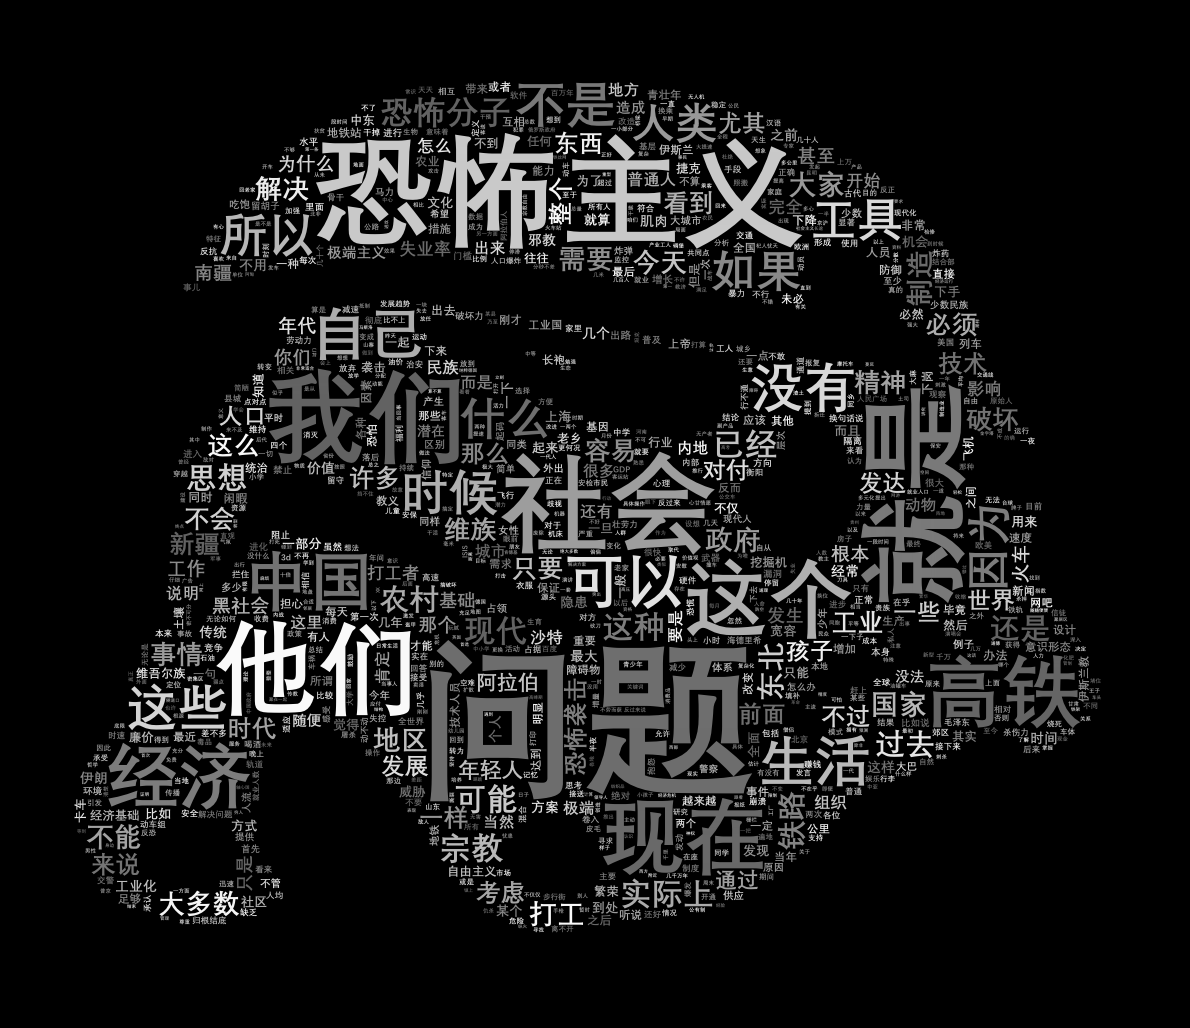
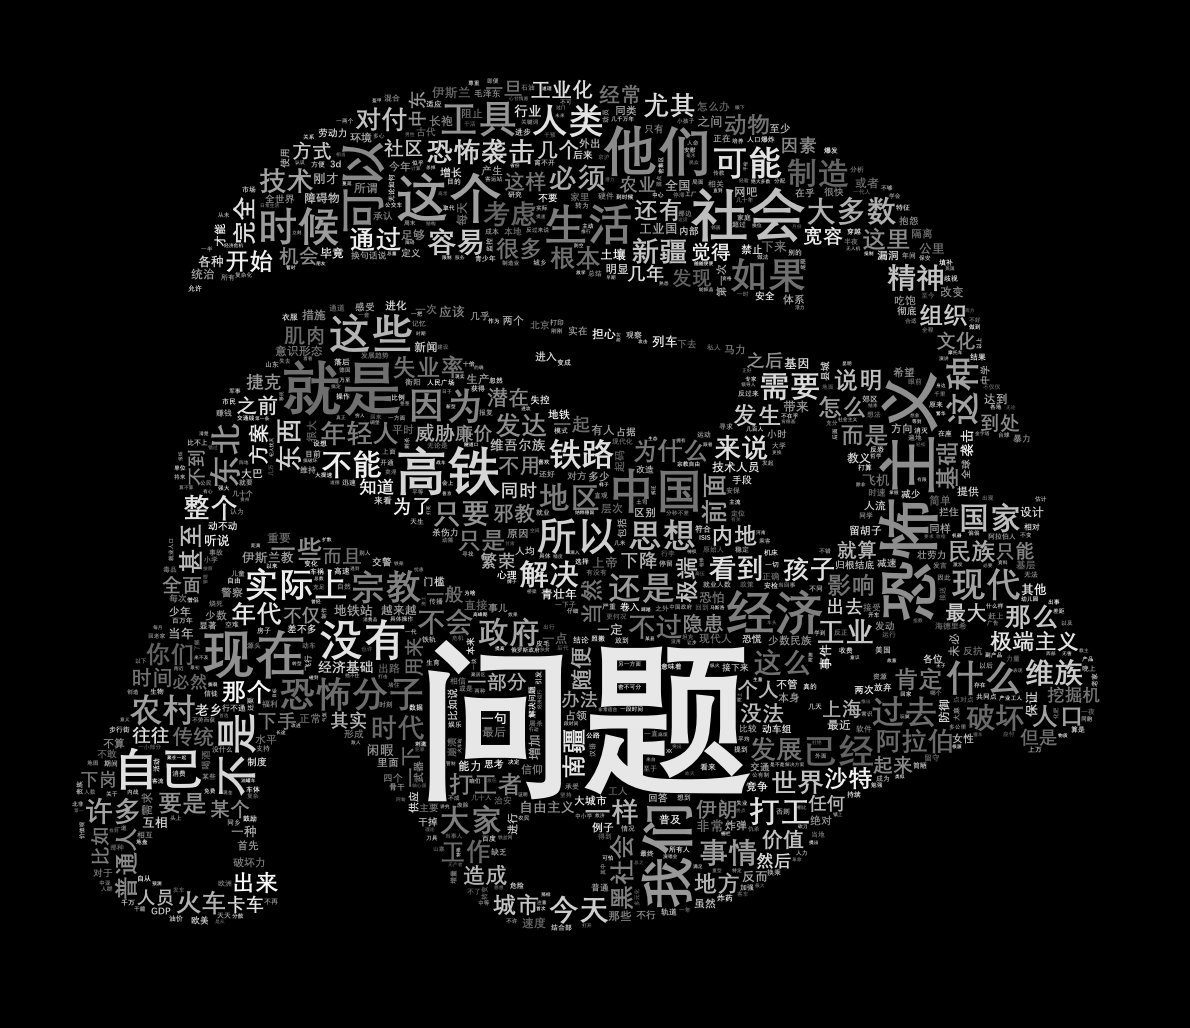
[examples] repeat

Changed region(s): [[0.0622, 0.0623, 0.9328, 0.9027]]

diff --git a/src/tokenizer.rs b/src/tokenizer.rs
@@ -57,6 +57,11 @@ impl<'a> ChineseTokenizer {
         self
     }
 
+    pub fn with_repeat(mut self, value: bool) -> Self {
+        self.repeat = value;
+        self
+    }
+
     fn tokenize(&'a self, text: &'a str) -> impl IntoIterator<Item = &str> {
         let mut iter: Box<dyn Iterator<Item = &str>> = Box::new(
             self.regex
@@ -161,6 +166,25 @@ impl<'a> ChineseTokenizer {
 
         if self.max_words > 0 {
             normalized_freqs.truncate(self.max_words);
+        }
+
+        if self.repeat && normalized_freqs.len() < self.max_words as usize {
+            let times_extend =
+                ((self.max_words as f32 / normalized_freqs.len() as f32).ceil()) as u32 - 1;
+
+            let freqs_clone = normalized_freqs.clone();
+            let down_weight = normalized_freqs
+                .last()
+                .expect("The normalized frequencies vec is empty")
+                .1;
+
+            for i in 1..=times_extend {
+                normalized_freqs.extend(
+                    freqs_clone
+                        .iter()
+                        .map(|(word, freq)| (*word, freq * down_weight.powf(i as f32))),
+                )
+            }
         }
 
         normalized_freqs

diff --git a/src/lib.rs b/src/lib.rs
@@ -67,6 +67,11 @@ impl WordCloud {
         self
     }
 
+    pub fn with_min_font_size(mut self, value: f32) -> Self {
+        self.min_font_size = value;
+        self
+    }
+
     pub fn with_font_from_path(mut self, path: impl Into<PathBuf>) -> Self {
         let font_file = fs::read(path.into()).expect("Unable to read font file");
 
@@ -172,7 +177,7 @@ impl WordCloud {
         };
 
         for (word, freq) in &words {
-            if self.relative_font_scaling != 0.0 {
+            if !self.tokenizer.repeat && self.relative_font_scaling != 0.0 {
                 font_size *= self.relative_font_scaling * (freq / last_freq)
                     + (1.0 - self.relative_font_scaling);
             }
